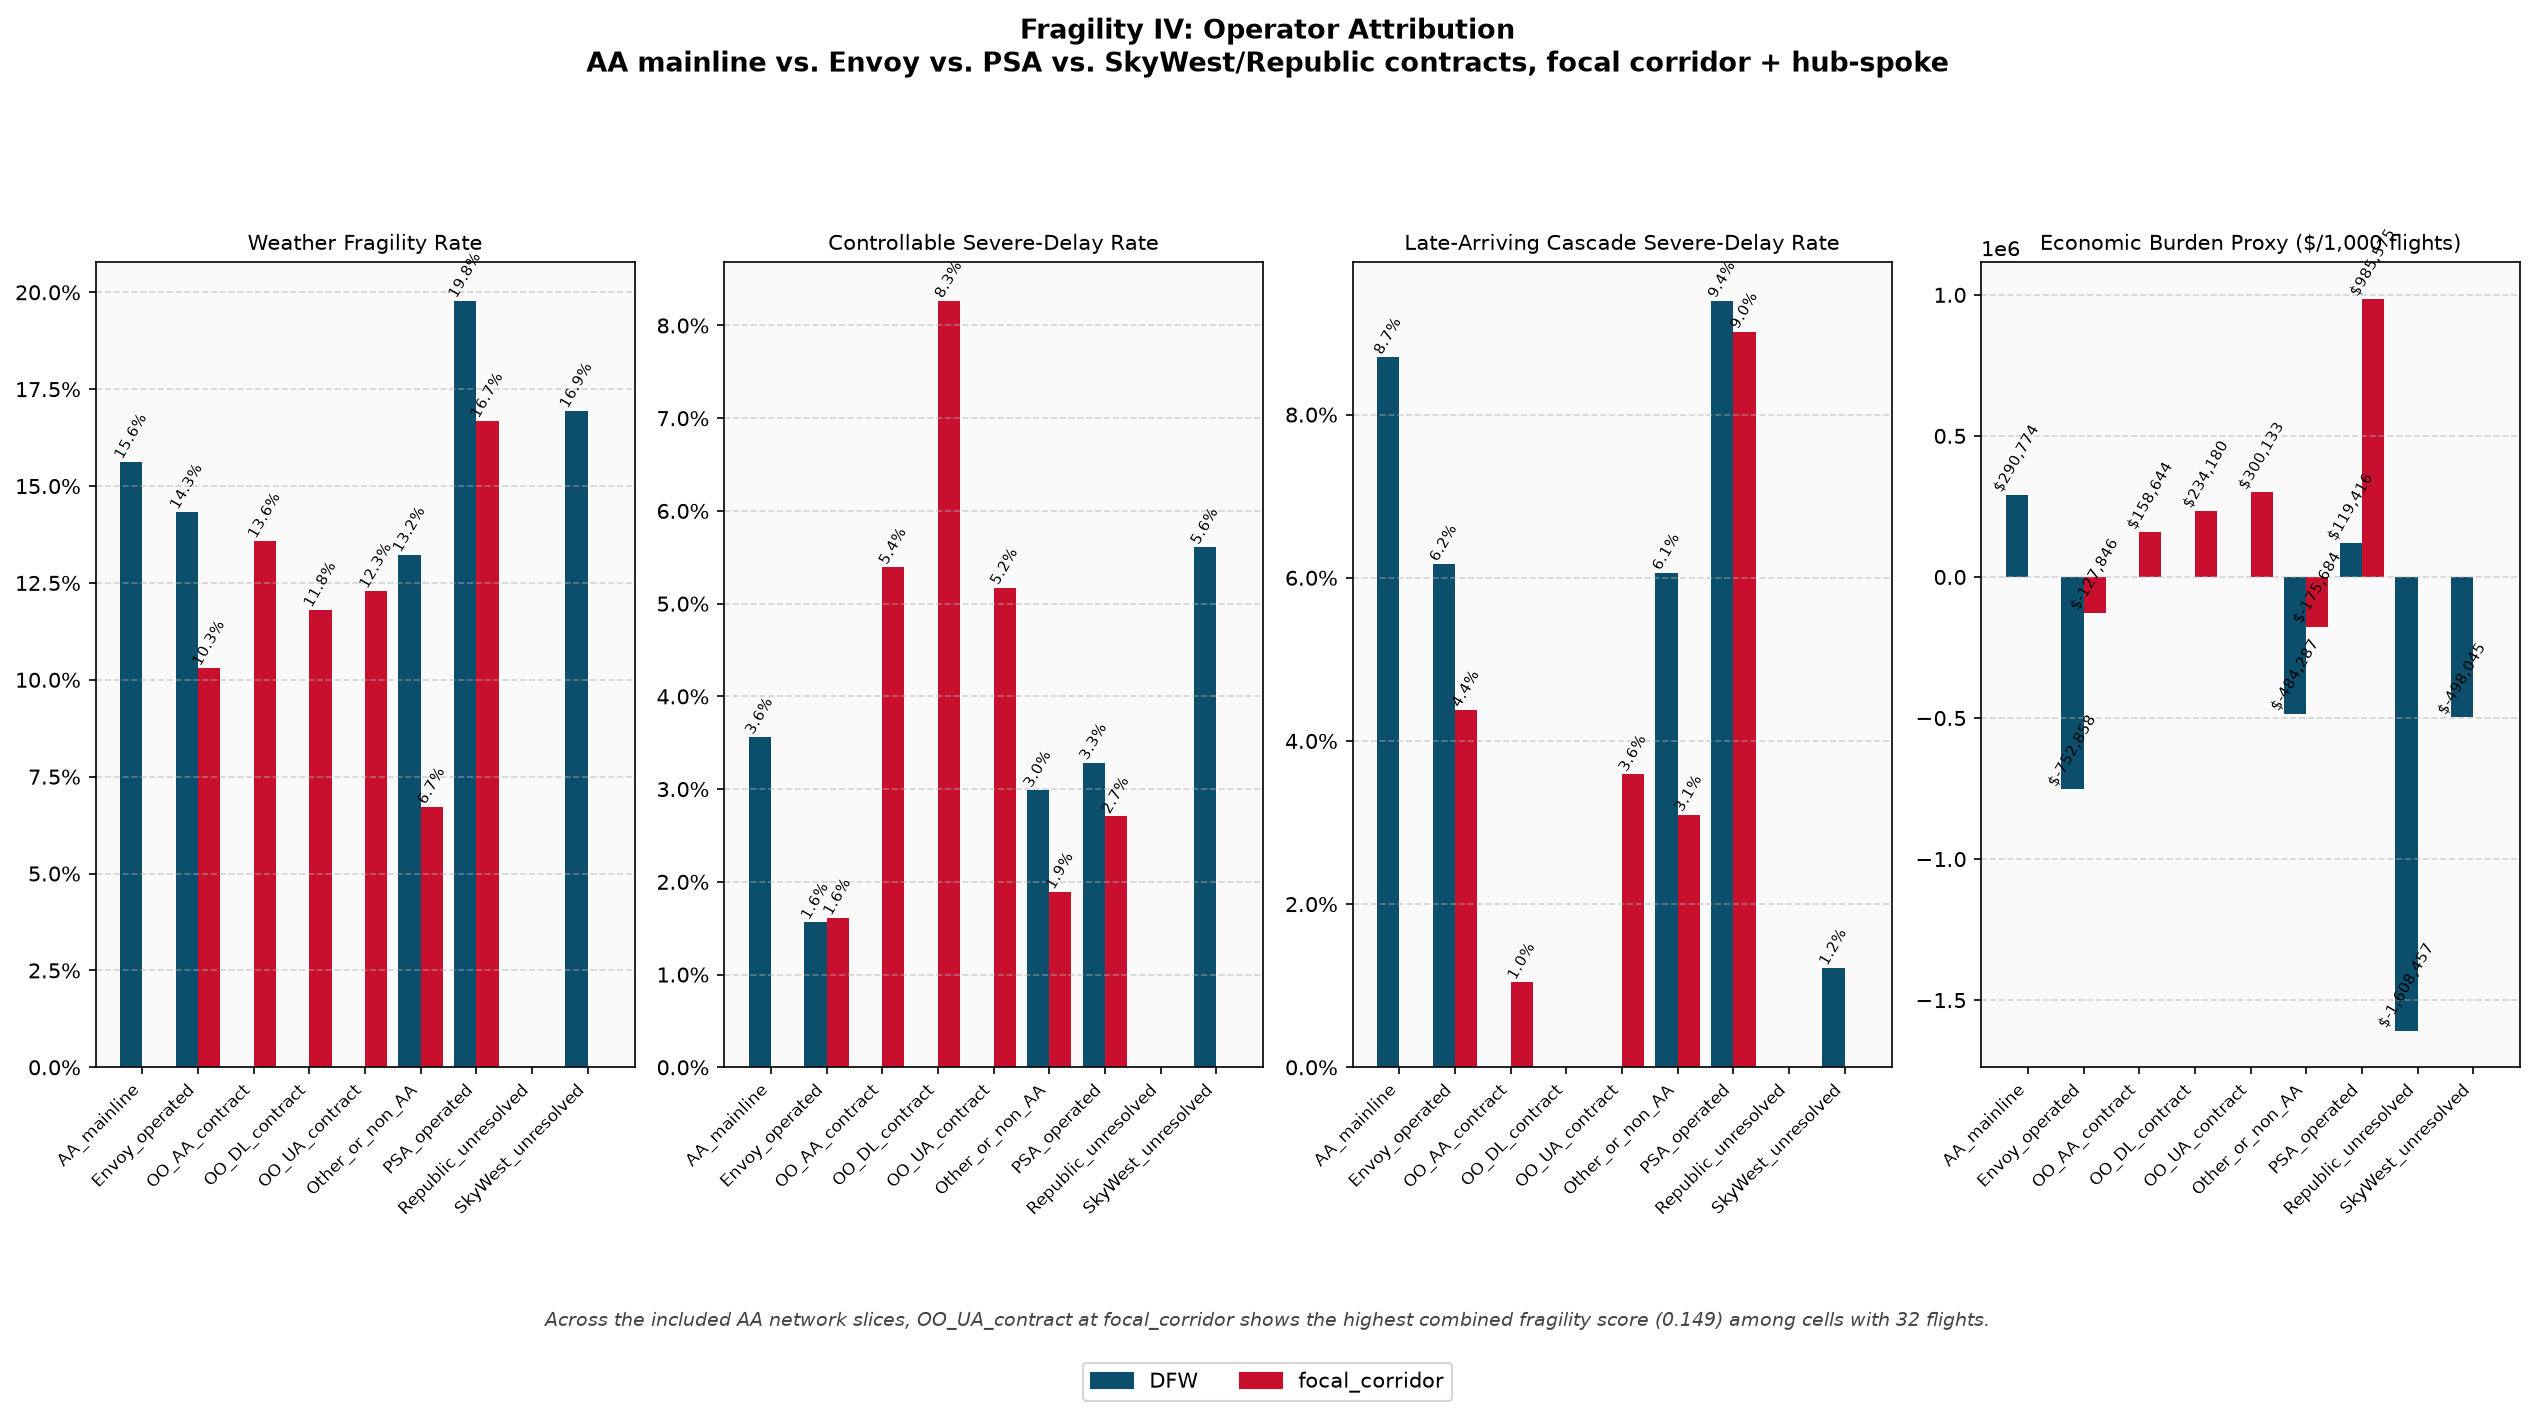
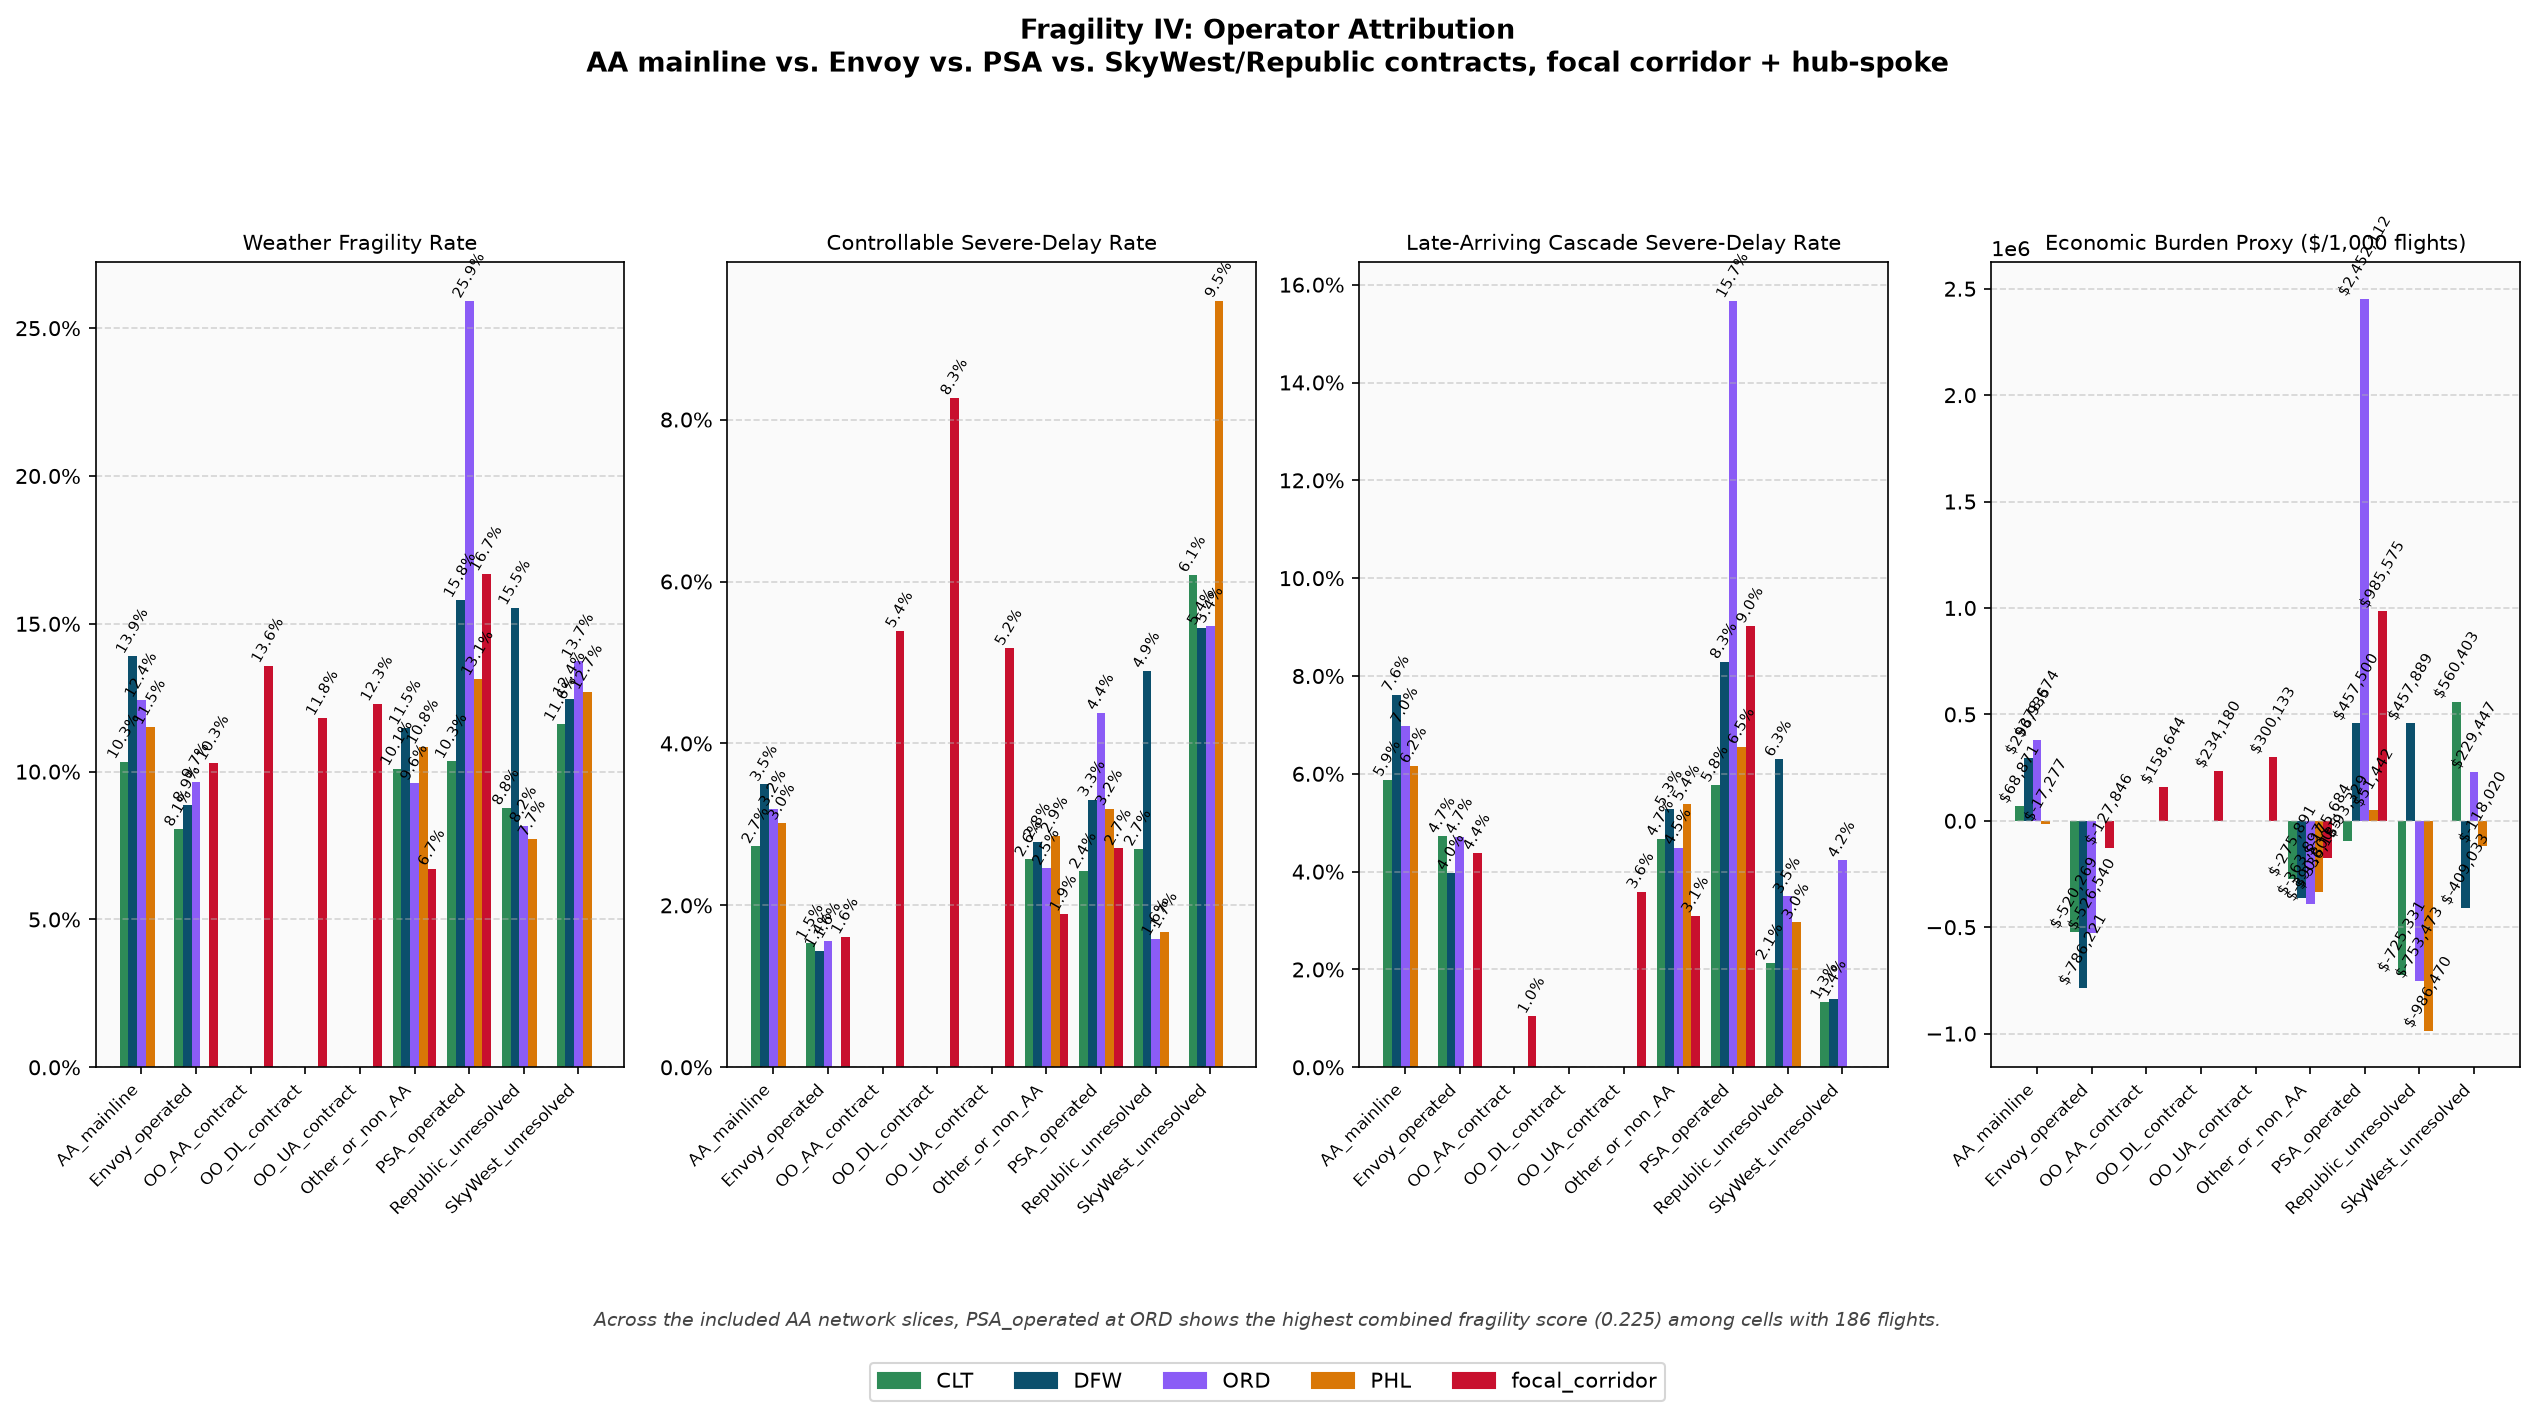
Fragility IV local-mode results: 3.59M flights, 4 hubs, 24 months, 96.6% weather match
First valid local-mode (DFW+CLT+ORD+PHL, Jan 2024-Dec 2025) Fragility IV run.
Prior runs had broken weather joins (3.5% match) due to IEM rate-limiting; this
run has correct weather coverage after the retry-backoff and chunking fixes.

Key QA numbers:
- BTS: 3,587,814 flights, 243 airports, 13 carriers, no duplicates
- Weather: 4,092,163 airport-hour rows; dep match 96.6%, arr match 96.5%
- Operator split: AA_mainline 1.47M, Envoy 459K, PSA 324K, unresolved 485K
- Hub families: DFW 1.23M, ORD 1.18M, CLT 801K, PHL 373K
- Top finding: PSA_operated at ORD, combined fragility score 0.225 (n=186)
- 18 cells below min_sample_threshold (30 flights); flagged as indicative only

diff --git a/flight-fragility-poc/output/fragility_iv_summary.md b/flight-fragility-poc/output/fragility_iv_summary.md
@@ -4,18 +4,21 @@ This summary compares observable fragility signals (weather sensitivity, control
 
 ## 1. Are material operator differences observed?
 
-Across the included operator_class x hub_family cells, the weather-fragility-rate spread is 19.8% (highest minus lowest cell, pooled across weather conditions and study periods). Across the included AA network slices, OO_UA_contract at focal_corridor shows the highest combined fragility score (0.149) among cells with 32 flights.
+Across the included operator_class x hub_family cells, the weather-fragility-rate spread is 19.2% (highest minus lowest cell, pooled across weather conditions and study periods). Across the included AA network slices, PSA_operated at ORD shows the highest combined fragility score (0.225) among cells with 186 flights.
 
 ## 2. Which hubs or corridor families are most implicated?
 
 | Hub / corridor family | Mean weather fragility rate across operator classes |
 |---|---|
-| DFW | 13.3% |
+| ORD | 13.3% |
+| DFW | 13.0% |
 | focal_corridor | 11.9% |
+| PHL | 11.2% |
+| CLT | 9.9% |
 
 ## 3. Weather-related, controllable, or cascade-driven?
 
-Of the three component rates averaged across included cells, **Weather (overall fragility)** is highest (12.6%). This indicates where the included data concentrate, not which underlying cause produced it.
+Of the three component rates averaged across included cells, **Weather (overall fragility)** is highest (11.9%). This indicates where the included data concentrate, not which underlying cause produced it.
 
 ## 4. Suggested follow-up domains
 
@@ -26,8 +29,8 @@ Of the three component rates averaged across included cells, **Weather (overall 
 
 ## 5. QA notes
 
-- 7 operator/hub/weather/period cells have fewer than 30 flights (min_sample_threshold) — treat their rates as indicative only.
-- 3,447 flights remain in an unresolved operator-ambiguity label (SkyWest_unresolved / Republic_unresolved) and are excluded from operator-class comparisons; see scripts/15_resolve_operator_ambiguity.py.
+- 18 operator/hub/weather/period cells have fewer than 30 flights (min_sample_threshold) — treat their rates as indicative only.
+- 485,006 flights remain in an unresolved operator-ambiguity label (SkyWest_unresolved / Republic_unresolved) and are excluded from operator-class comparisons; see scripts/15_resolve_operator_ambiguity.py.
 - combined_fragility_score weights used: {'w1_cancellation_rate': 0.25, 'w2_severe_delay_rate': 0.25, 'w3_controllable_severe_delay_rate': 0.25, 'w4_late_arriving_severe_delay_rate': 0.25}
 - Modules present: ['focal_corridor', 'hub_spoke']
 